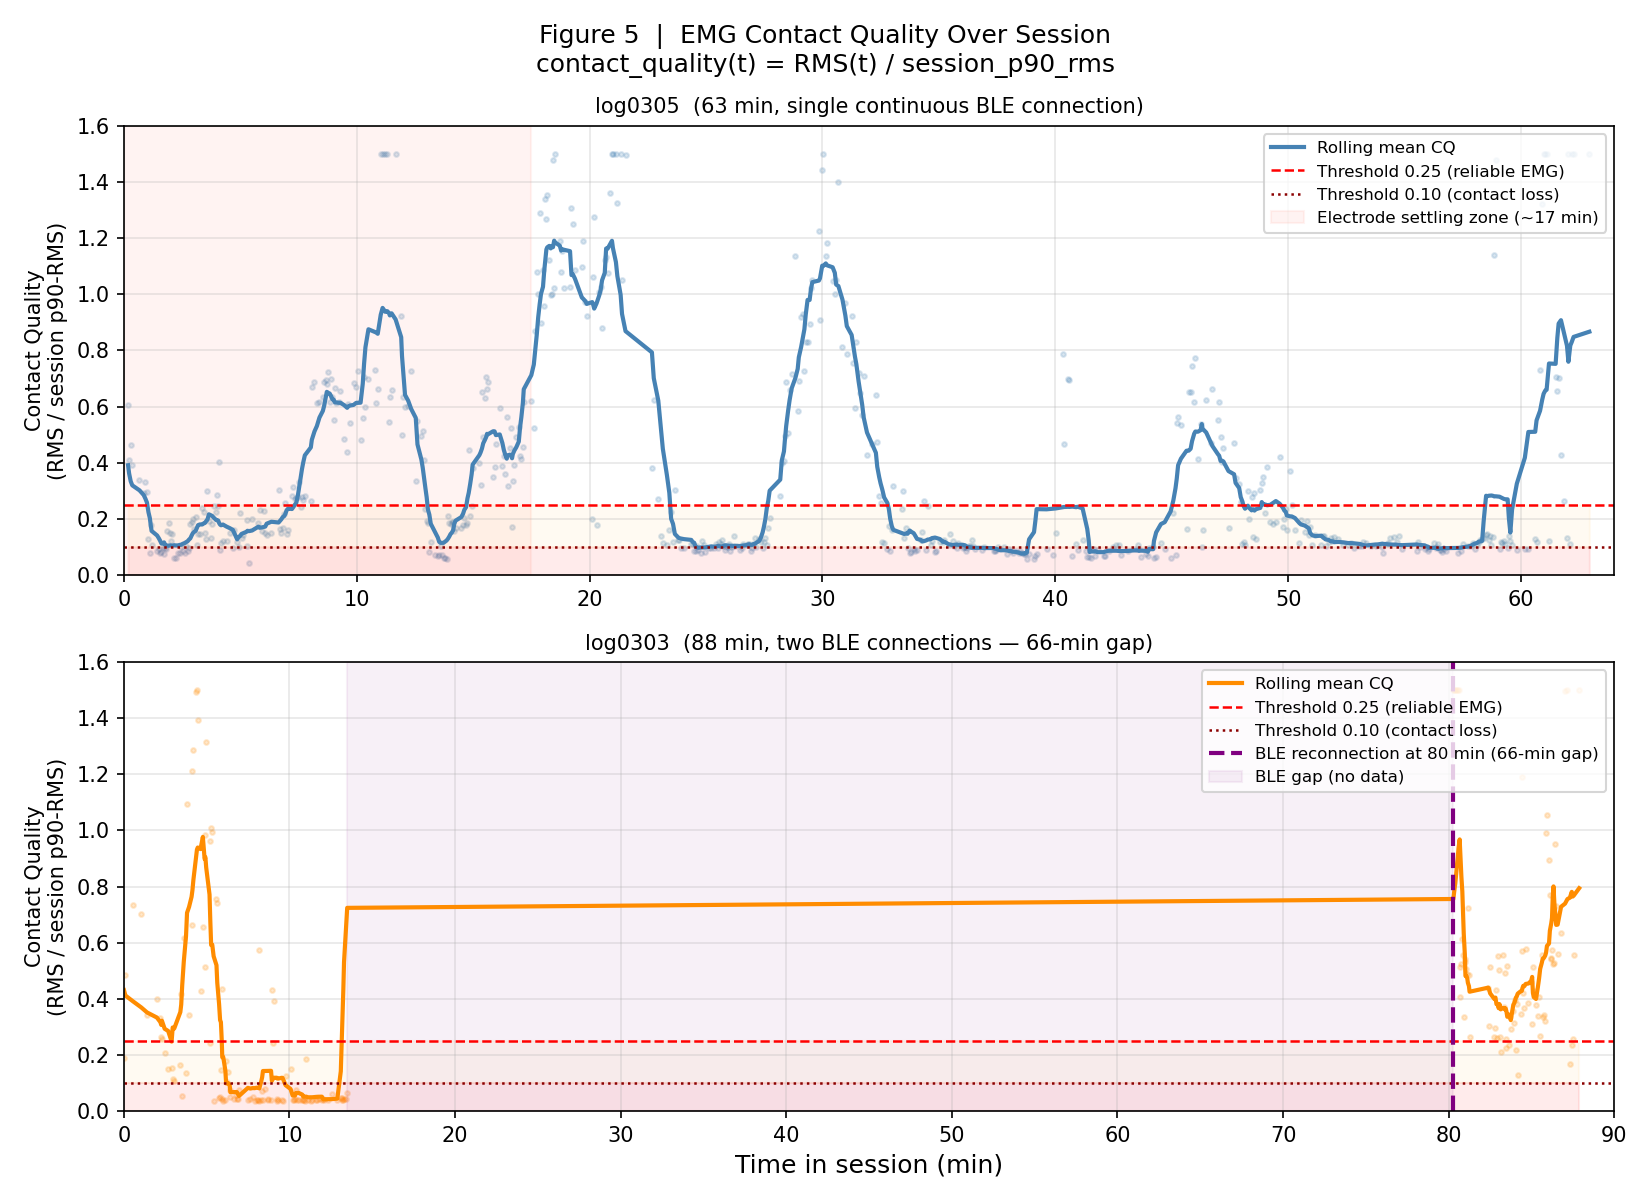
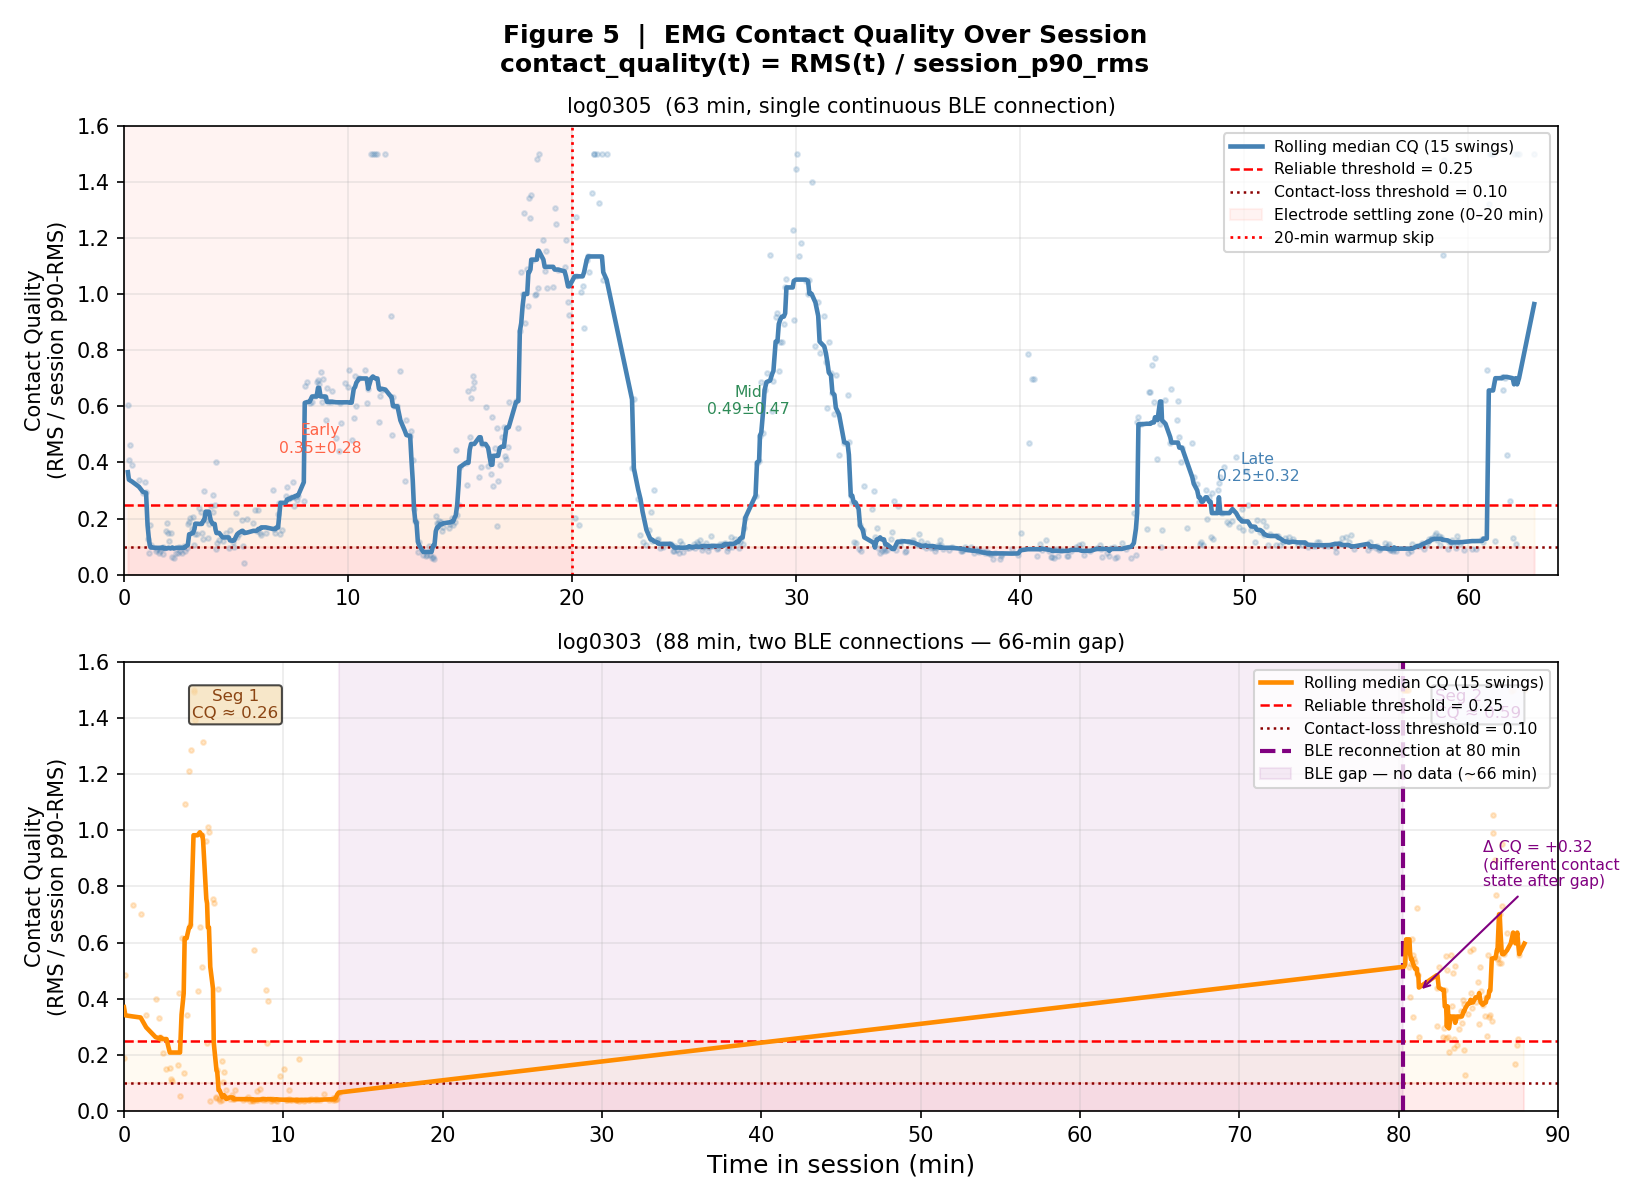
experiment #4, 5 done

diff --git a/paper_figures.py b/paper_figures.py
@@ -388,38 +388,71 @@ for ax, df, label, color, xlim, gap_min in [
      "darkorange", 90, RECONNECT_MIN),
 ]:
     t = df["t_min"]
-    q = contact_quality(df)
-    q_roll = rolling_mean(q, w=15)
+    p90 = df["rms"].quantile(0.90)
+    q = (df["rms"] / p90).clip(0, 1.5) if p90 > 0 else df["rms"] * 0
+    q_roll = q.rolling(15, center=True, min_periods=5).median()  # median, not mean
 
-    ax.scatter(t, q, s=5, alpha=0.20, color=color)
-    ax.plot(t, q_roll, color=color, linewidth=2, label="Rolling mean CQ")
+    ax.scatter(t, q, s=5, alpha=0.20, color=color, zorder=2)
+    ax.plot(t, q_roll, color=color, linewidth=2.2, zorder=3,
+            label="Rolling median CQ (15 swings)")
     ax.axhline(0.25, color="red", linewidth=1.2, linestyle="--",
-               label="Threshold 0.25 (reliable EMG)")
+               label="Reliable threshold = 0.25")
     ax.axhline(0.10, color="darkred", linewidth=1.2, linestyle=":",
-               label="Threshold 0.10 (contact loss)")
-    ax.fill_between(t, 0, 0.10, alpha=0.08, color="red")
-    ax.fill_between(t, 0.10, 0.25, alpha=0.05, color="orange")
+               label="Contact-loss threshold = 0.10")
+    ax.fill_between(t, 0, 0.10, alpha=0.08, color="red", zorder=1)
+    ax.fill_between(t, 0.10, 0.25, alpha=0.05, color="orange", zorder=1)
 
     if gap_min is not None:
+        # log0303: annotate segments and gap
         ax.axvline(gap_min, color="purple", linewidth=2.0, linestyle="--",
-                   label=f"BLE reconnection at {gap_min:.0f} min (66-min gap)")
-        ax.axvspan(13.5, gap_min, alpha=0.06, color="purple",
-                   label="BLE gap (no data)")
+                   label=f"BLE reconnection at {gap_min:.0f} min")
+        ax.axvspan(13.5, gap_min, alpha=0.07, color="purple", zorder=1,
+                   label="BLE gap — no data (~66 min)")
+        # segment labels
+        seg1_mean = q[t <= 13.5].mean()
+        seg2_mean = q[t >= gap_min].mean()
+        ax.text(7, 1.40, f"Seg 1\nCQ ≈ {seg1_mean:.2f}",
+                ha="center", fontsize=8, color="saddlebrown",
+                bbox=dict(boxstyle="round,pad=0.2", facecolor="wheat", alpha=0.7))
+        ax.text(gap_min + 2, 1.40, f"Seg 2\nCQ ≈ {seg2_mean:.2f}",
+                ha="left", fontsize=8, color="purple",
+                bbox=dict(boxstyle="round,pad=0.2", facecolor="lavender", alpha=0.7))
+        if abs(seg2_mean - seg1_mean) > 0.05:
+            ax.annotate(f"Δ CQ = {seg2_mean - seg1_mean:+.2f}\n(different contact\nstate after gap)",
+                        xy=(gap_min + 1, (seg1_mean + seg2_mean) / 2),
+                        xytext=(gap_min + 5, 0.80),
+                        arrowprops=dict(arrowstyle="->", color="purple"),
+                        fontsize=7.5, color="purple")
     else:
-        # settling zone for log0305
-        ax.axvspan(0, 17.5, alpha=0.07, color="tomato",
-                   label="Electrode settling zone (~17 min)")
+        # log0305: settling zone + per-third annotations
+        ax.axvspan(0, 20, alpha=0.07, color="tomato", zorder=1,
+                   label="Electrode settling zone (0–20 min)")
+        ax.axvline(20, color="red", linewidth=1.3, linestyle=":",
+                   label="20-min warmup skip")
+        # per-third means
+        q1t, q2t = t.quantile(1/3), t.quantile(2/3)
+        for name, mask, col in [
+            ("Early", t <= q1t, "tomato"),
+            ("Mid",   (t > q1t) & (t <= q2t), "seagreen"),
+            ("Late",  t > q2t, "steelblue"),
+        ]:
+            seg_q = q[mask]
+            mid_t = t[mask].mean()
+            ax.text(mid_t, seg_q.mean() + 0.07,
+                    f"{name}\n{seg_q.mean():.2f}±{seg_q.std():.2f}",
+                    ha="center", va="bottom", fontsize=7.5, color=col)
 
     ax.set_ylabel("Contact Quality\n(RMS / session p90-RMS)", fontsize=10)
     ax.set_title(label, fontsize=10)
     ax.set_xlim(0, xlim)
     ax.set_ylim(0, 1.6)
-    ax.legend(fontsize=8, loc="upper right")
-    ax.grid(True, alpha=0.3)
+    ax.legend(fontsize=7.5, loc="upper right")
+    ax.grid(True, alpha=0.25)
 
 axes[1].set_xlabel("Time in session (min)", fontsize=12)
 fig.suptitle("Figure 5  |  EMG Contact Quality Over Session\n"
-             "contact_quality(t) = RMS(t) / session_p90_rms", fontsize=12)
+             "contact_quality(t) = RMS(t) / session_p90_rms", fontsize=12,
+             fontweight="bold")
 plt.tight_layout()
 plt.savefig(os.path.join(OUT_DIR, "fig5_contact_quality.png"), dpi=150)
 plt.close()
@@ -429,49 +462,70 @@ print("  Saved: fig5_contact_quality.png")
 # ── Figure 6: log0303 gap artifact ───────────────────────────────────────────
 print("Generating Figure 6: log0303 gap artifact visualization...")
 
-fig, ax = plt.subplots(figsize=(11, 5))
+fig, ax = plt.subplots(figsize=(11, 5.5))
 
-# full session
+# full session scatter + rolling median
 t03  = df03["t_min"]
 m03  = df03["mdf"]
-ax.scatter(t03, m03, s=7, alpha=0.30, color="darkorange", zorder=2,
-           label="Per-swing MDF (full session)")
-ax.plot(t03, rolling_mean(m03, w=10), color="saddlebrown", linewidth=2, zorder=3,
-        label="Rolling mean MDF")
+m03_roll = m03.rolling(10, center=True, min_periods=3).median()
+ax.scatter(t03, m03, s=7, alpha=0.25, color="darkorange", zorder=2,
+           label="Per-swing MDF (full session, n=197)")
+ax.plot(t03, m03_roll, color="saddlebrown", linewidth=2.0, zorder=3,
+        label="Rolling median MDF (10 swings)")
 
-# segment 1 overlay
+# segment 1 overlay — larger diamonds, rolling median
 t01 = df03_seg1["t_min"]
 m01 = df03_seg1["mdf"]
-ax.scatter(t01, m01, s=16, alpha=0.65, color="navy", marker="D", zorder=4,
-           label="Segment 1 swings (first BLE connection)")
+m01_roll = m01.rolling(10, center=True, min_periods=3).median()
+ax.scatter(t01, m01, s=18, alpha=0.70, color="navy", marker="D", zorder=4,
+           label=f"Segment 1 only (n={len(df03_seg1)}, 13.5 min)")
+ax.plot(t01, m01_roll, color="navy", linewidth=1.8, linestyle="-", zorder=5, alpha=0.7)
 
-# gap annotation
-ax.axvspan(13.5, RECONNECT_MIN, alpha=0.10, color="purple",
-           label=f"BLE gap  (~66 min, no data)")
+# baseline MDF line (from full session analysis = first segment swings)
+baseline_mdf_full = 212.9    # confirmed from out0303_v2/baseline.json
+ax.axhline(baseline_mdf_full, color="seagreen", linewidth=1.4, linestyle="--",
+           label=f"Full-session baseline MDF = {baseline_mdf_full:.0f} Hz")
+
+# gap shading
+ax.axvspan(13.5, RECONNECT_MIN, alpha=0.10, color="purple", zorder=1,
+           label="BLE gap (~66 min, no data)")
 ax.axvline(RECONNECT_MIN, color="purple", linewidth=2.0, linestyle="--")
-ax.text(RECONNECT_MIN - 1, 280,
+
+# segment region labels on x-axis area
+ax.text(7, 15, "Segment 1\n(0–13.5 min)", ha="center", va="bottom",
+        fontsize=8.5, color="navy",
+        bbox=dict(boxstyle="round,pad=0.2", facecolor="aliceblue", alpha=0.85))
+ax.text((13.5 + RECONNECT_MIN) / 2, 15, "BLE gap\n(~66 min)", ha="center",
+        va="bottom", fontsize=8.5, color="purple",
+        bbox=dict(boxstyle="round,pad=0.2", facecolor="lavender", alpha=0.85))
+ax.text(RECONNECT_MIN + 3.5, 15, "Segment 2\n(80–88 min)", ha="center",
+        va="bottom", fontsize=8.5, color="saddlebrown",
+        bbox=dict(boxstyle="round,pad=0.2", facecolor="papayawhip", alpha=0.85))
+
+# reconnection annotation
+ax.text(RECONNECT_MIN + 0.5, 290,
         f"Reconnection\nt = {RECONNECT_MIN:.0f} min",
-        ha="right", va="top", fontsize=8.5, color="purple",
+        ha="left", va="top", fontsize=8.5, color="purple",
         bbox=dict(boxstyle="round,pad=0.2", facecolor="lavender", alpha=0.8))
 
-# drop % annotations
+# drop % summary box
 full_drop = 28.7
 seg1_drop = 4.9
 ax.text(0.02, 0.97,
-        f"Full session MDF drop:  {full_drop:.1f}%  ← gap artifact\n"
-        f"Segment 1 only drop:    {seg1_drop:.1f}%  ← no meaningful fatigue",
+        f"Full session MDF drop:  {full_drop:.1f}%  ← cross-segment artifact\n"
+        f"Segment 1 only drop:    {seg1_drop:.1f}%  ← no meaningful within-segment fatigue",
         transform=ax.transAxes, fontsize=9.5, va="top",
         bbox=dict(boxstyle="round,pad=0.35", facecolor="lightyellow", alpha=0.9))
 
 ax.set_xlabel("Reconstructed absolute time (min)", fontsize=12)
 ax.set_ylabel("Median Frequency — MDF (Hz)", fontsize=12)
-ax.set_title("Figure 6  |  log0303: Gap Artifact — Full Session vs Segment 1\n"
-             "Apparent 28.7% MDF drop is a cross-segment artifact, not physiological fatigue",
+ax.set_title("Figure 6  |  log0303: BLE Gap Artifact\n"
+             "Apparent 28.7% MDF drop is a cross-segment artifact — Segment 1 alone shows only 4.9%",
              fontsize=11)
 ax.set_xlim(-1, 90)
 ax.set_ylim(0, 350)
-ax.legend(fontsize=8.5, loc="upper right")
-ax.grid(True, alpha=0.3)
+ax.legend(fontsize=8, loc="upper right")
+ax.grid(True, alpha=0.25)
 plt.tight_layout()
 plt.savefig(os.path.join(OUT_DIR, "fig6_log0303_gap_artifact.png"), dpi=150)
 plt.close()

diff --git a/paper.md b/paper.md
@@ -306,8 +306,8 @@ This work is, to our knowledge, the first to: (1) quantify forearm electrode set
 | 2 | **Electrode settling: MDF vs. time + contact quality (first 30 min, log0305)** — two-panel: MDF suppression + RMS-derived contact quality, settling ~17–20 min. *Caption: Figure 2 shows early-session MDF suppression during the same interval in which RMS-derived contact quality is changing. The 10- and 15-min markers fall inside the shaded settling region, while the 20-min marker occurs near the transition to a more stable post-settling baseline. This supports the conclusion that electrode settling lasts approximately 17–20 min in log0305.* | `out0305_w20/swing_features.csv` | ✅ `paper_figures/fig2_electrode_settling.png` |
 | 3 | **IMU consistency vs MDF fatigue trend (log0305)** — two-panel: post-settling MDF drop (Panel A) + flat IMU across all 626 swings (Panel B), rolling median, per-third means, Pearson r. *Caption: Figure 3. The top panel shows the post-settling MDF trajectory, while the bottom panel shows peak gyro magnitude for the same swings. IMU swing intensity remained flat across the session (Pearson r = +0.029, p = 0.468, all 626 swings), with nearly identical early, middle, and late means, while MDF declined after the corrected 20-min baseline. Because the independent IMU effort proxy did not decline, the corrected MDF drop is not explained by reduced swing effort. Note: IMU peak gyro is a biomechanical effort proxy, not a direct muscle force measurement.* | `out0305_w20/swing_features.csv` | ✅ `paper_figures/fig3_imu_consistency.png` |
 | 4 | **Warmup-skip sensitivity bar chart** — −2.6% / +15.2% / −26.2% / +28.1% | fatigue_summary files + confirmed original-pipeline value | ✅ `paper_figures/fig4_warmup_skip_sensitivity.png` |
-| 5 | Contact quality (`RMS/p90_rms`) over session, both sessions | `out0303_v2`, `out0305_w20` | ✅ `paper_figures/fig5_contact_quality.png` |
-| 6 | log0303 gap artifact: MDF over full session with reconnection gap annotated | `out0303_v2/swing_features.csv`, `out0303_seg1` | ✅ `paper_figures/fig6_log0303_gap_artifact.png` |
+| 5 | **Contact quality over session — both sessions.** Two-panel: log0305 (top) + log0303 (bottom). Rolling median, per-third labels, settling zone (0–20 min), segment annotations for log0303. *Caption: Figure 5. Contact quality (RMS / session p90-RMS) over session. Top panel (log0305): early third 0.36 ± 0.28 rises to mid-session peak 0.49 ± 0.47, with late session 0.25 ± 0.32 — consistent with electrode settling early, peak activation mid-session, and fatigue-related amplitude decline late. The trend is not monotone, reflecting that contact quality conflates electrode impedance (settling) and muscle force output (fatigue). The settling zone (0–20 min) overlaps the period of lowest early CQ. Bottom panel (log0303): Segment 1 CQ = 0.26, Segment 2 CQ = 0.59 (Δ = +0.32) — the electrode contact state changed substantially during the 66-min BLE gap, directly supporting the cross-segment artifact interpretation.* | `out0303_v2/swing_features.csv`, `out0305_w20/swing_features.csv` | ✅ `paper_figures/fig5_contact_quality.png` |
+| 6 | **log0303 gap artifact: MDF over full session with annotated BLE gap.** Segment 1 (navy diamonds + rolling median), full session (orange + rolling median), baseline MDF line, segment region labels, drop % summary box. *Caption: Figure 6. log0303 contains two BLE connections separated by a 66-min gap. The full-session analysis compares Segment 1 swings (0–13.5 min) against Segment 2 swings (80–88 min) across this gap, yielding an apparent 28.7% MDF drop. Segment 1 analysed in isolation shows only 4.9% — below any meaningful fatigue threshold. The apparent full-session drop is a cross-segment artifact: the electrode contact state and player condition both changed during the gap, making the comparison physiologically meaningless.* | `out0303_v2/swing_features.csv`, `out0303_seg1/swing_features.csv` | ✅ `paper_figures/fig6_log0303_gap_artifact.png` |
 | 7 | IMU-EMG diagnostic matrix (2×2 scatter) | `out0305_w20` | ✅ `paper_figures/fig7_imu_emg_diagnostic_matrix.png` |
 | 8 | Full-window MDF vs. pre-impact MDF comparison | log0305 + future impact-risk/pre-impact analysis | 🔮 Future / Paper 2 |
 

diff --git a/todo.md b/todo.md
@@ -17,8 +17,8 @@
 | 1 | 1 | ✅ Warmup-skip sensitivity figure | Central claim: standard skip misses fatigue | Paper 1 |
 | 2 | 2 | ✅ Electrode settling MDF/RMS curve | Central mechanism: settling lasts 17–20 min | Paper 1 |
 | 3 | 3 | ✅ IMU consistency plot | Validates fatigue vs reduced effort | Paper 1 |
-| 4 | 4 | Contact quality metric plot | Supports proposed EMG quality monitor | Paper 1 |
-| 5 | 5 | `log0303` gap artifact visualization | Shows BLE gap/cross-segment artifact | Paper 1 |
+| 4 | 4 | ✅ Contact quality metric plot | Supports proposed EMG quality monitor | Paper 1 |
+| 5 | 5 | ✅ `log0303` gap artifact visualization | Shows BLE gap/cross-segment artifact | Paper 1 |
 | 6 | 5b | IMU-EMG diagnostic matrix (Figure 7) | 2×2 IMU vs EMG quality scatter | Paper 1 |
 | 7 | 6 | Rest/noise-floor tracker | Strengthens contact/settling argument | Paper 1 / Paper 2 |
 | 8 | 7 | Robust MDF outlier filtering | Handles transient artifacts | Paper 1 / Paper 2 |
@@ -987,7 +987,7 @@ Do first.
 ✅ 1.  Warmup-skip sensitivity figure
 ✅ 2.  Electrode settling MDF/RMS curve
 ✅ 3.  IMU consistency plot
-   4.  Contact quality metric plot
+✅ 4.  Contact quality metric plot
    5.  log0303 gap artifact plot
    5b. IMU-EMG diagnostic matrix (Figure 7)
 ```
